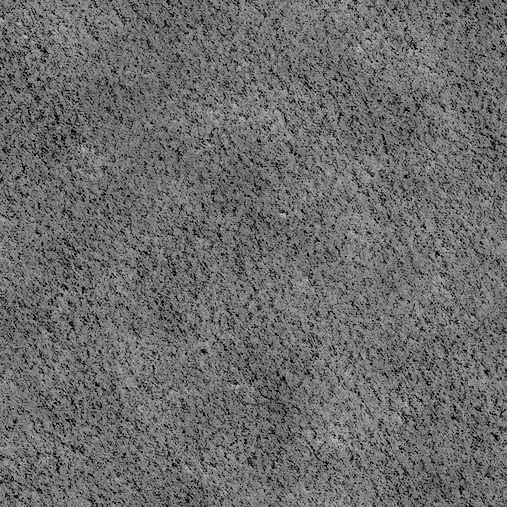
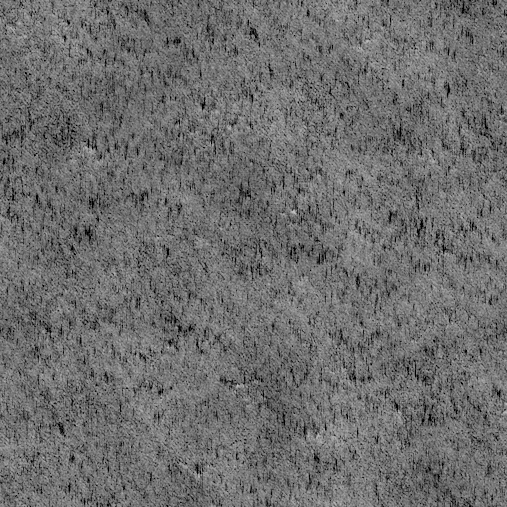
fix: model wood cracks as luminance valleys, not blur residuals
Height field: light = ridge, dark = valley. Extract fine and coarse groove
depth via vertical ridge envelope (grey_dilation), sharpen, then cut into the
shading map. Rejects relu(blur−img) coarse band. Re-synthesizes all six patches;
STUDY-032 and diary updated with evidence.

Changed region(s): [[0.0, 0.0, 1.0, 1.0]]

diff --git a/scripts/wood-grain-fourier-synthesis.py b/scripts/wood-grain-fourier-synthesis.py
@@ -15,37 +15,23 @@ Source photo requirements: ONE wood species per image (no grid — a grid
 splits resolution N ways and creates hard seams that contaminate the FFT),
 maximum resolution, flat/uniform lighting, zero perspective, PNG not JPEG.
 
+Height-field model (STUDY-032): luminance is relief — light = ridge, dark =
+valley. Cracks are directional grooves cut into that surface, not soft blur
+blobs. Valley depth = local ridge envelope minus height; horizontal grooves
+use a vertical morphological ridge envelope (max along columns).
+
 STAGES:
   1. Base grain   -- FFT the real photo -> smoothed magnitude spectrum ->
-                     filter fresh white noise with it (spectral synthesis /
-                     Fourier filtering method). Anisotropic: uses the real
-                     2D spectrum, not a radially-averaged one, so grain
-                     DIRECTION survives instead of collapsing to isotropic
-                     "night sky" noise.
-  2. Crack layer  -- isolate dark defects: crack = relu(blur(img) - img).
-  3. Feature scale -- Fourier scaling theorem (f(kx) <-> F(u/k)/k): zoom the
-                     crack spectrum about its DC center to resize crack
-                     features without touching pixels. Bigger features eat
-                     more of the fixed "ink" budget, so this also sparsens
-                     the crack count, not just the size.
-  4. Heeger-Bergen -- alternate (a) force target spectrum magnitude, keep
-                     phase, (b) histogram-match to the real crack layer's
-                     pixel-value distribution. A spectrum alone only
-                     controls pairwise correlation; real cracks are sparse
-                     and heavy-tailed (mostly none, rare strong spikes),
-                     which needs the marginal distribution matched too, or
-                     synthesis collapses to diffuse Gaussian haze instead of
-                     distinct dark lines.
-  5. Directional rim -- vertical gradient of the crack field; the "falling
-                     away below the crack" sign gets the strong highlight,
-                     the opposite sign a faint one. Fakes the raised/frayed
-                     fiber lip real wood shows next to a split.
-  6. Patchy rim   -- multiply the rim by a thresholded low-frequency noise
-                     mask so the highlight doesn't run a crack's full length.
-  7. Composite    -- base grain + crack darkening + rim brightening, as
-                     offsets around neutral gray (128) -- a height/shading map.
-  8. Colorize     -- albedo (heavily blurred real photo color) x shading
-                     (stage 7, as a lighting multiplier around 128).
+                     filter fresh white noise with it (spectral synthesis).
+  2. Valley layers -- fine + coarse depth from vertical ridge envelope;
+                     coarse = deep envelope minus fine (big fissures only).
+  3. Feature scale -- optional spectrum zoom per layer (native = 1.0).
+  4. Heeger-Bergen -- match spectrum + sparse depth histogram per layer.
+  5. Sharpen      -- steepen valley walls before compositing (not Gaussian).
+  6. Directional rim -- vertical gradient of combined valley depth.
+  7. Patchy rim   -- thresholded low-frequency mask on the rim.
+  8. Composite    -- height map: neutral + grain ripple - valley cuts + rim.
+  9. Colorize     -- albedo x shading / 128.
 
 Usage:
     python3 scripts/wood-grain-fourier-synthesis.py <source_photo.png> <wood_name> [out_dir]
@@ -58,28 +44,33 @@ from pathlib import Path
 
 import numpy as np
 from PIL import Image
-from scipy.ndimage import gaussian_filter, zoom
+from scipy.ndimage import gaussian_filter, grey_dilation, zoom
 
-# ---- tuned parameters (see STUDY-031 for how each was arrived at) ----
-BLUR_SIGMA = 6.0            # stage 2: "smooth base tone" scale
-SPEC_SMOOTH_SIGMA = 2.5     # stages 1 & 2: smooths the measured spectrum
-FEATURE_SCALE = 1.0         # stage 3: native crack size from photo (9.0 was bubbly blobs — 2026-08-22)
-ITERATIONS = 6               # stage 4: Heeger-Bergen alternation rounds
-CRACK_STRENGTH = 0.8         # stage 7: how dark cracks cut into the grain
-RIM_PRE_BLUR = 3.0           # stage 5: smooths crack field before gradient
-RIM_STRENGTH = 0.6           # stage 7: brightness of the highlight
-TOP_FRACTION = 0.2           # stage 5: faint highlight kept above (vs below)
-PATCH_NOISE_SIGMA = 9.0      # stage 6: length scale of lit/unlit stretches
-PATCH_THRESHOLD = 0.55       # stage 6: higher = more of the rim stays dark
-GRAIN_CONTRAST = 14          # stage 7: base grain strength, gray levels
-ALBEDO_BLUR_SIGMA = 14.0     # stage 8: how much real-photo color survives
+# ---- tuned parameters (see STUDY-032) ----
+FINE_VALLEY_RADIUS = 7         # vertical ridge envelope for fine checking (px)
+COARSE_VALLEY_RADIUS = 41      # vertical envelope for wide fissures (px)
+SPEC_SMOOTH_SIGMA = 2.5        # smooth measured spectra before synthesis
+FEATURE_SCALE = 1.0            # native scale (9.0 was bubbly blobs — 2026-08-22)
+COARSE_FEATURE_SCALE = 1.0
+ITERATIONS = 6                 # Heeger-Bergen rounds per valley layer
+FINE_VALLEY_STRENGTH = 0.72    # how deep fine grooves cut the height map
+COARSE_VALLEY_STRENGTH = 1.35  # big fissures cut deeper
+FINE_VALLEY_FLOOR = 0.12       # sharpen: discard shallow noise
+FINE_VALLEY_POWER = 1.55
+COARSE_VALLEY_FLOOR = 0.08
+COARSE_VALLEY_POWER = 1.75
+RIM_PRE_BLUR = 2.0             # rim only — valleys stay sharp
+RIM_STRENGTH = 0.6
+TOP_FRACTION = 0.2
+PATCH_NOISE_SIGMA = 9.0
+PATCH_THRESHOLD = 0.55
+GRAIN_CONTRAST = 14
+ALBEDO_BLUR_SIGMA = 14.0
 SEED = 0
 
 
 def scale_spectrum(mag_shifted: np.ndarray, feature_scale: float) -> np.ndarray:
-    """Zoom a (fftshift'd) magnitude spectrum about its DC center so the
-    real-space features it produces become `feature_scale` times bigger
-    (>1) or smaller (<1), then pad/crop back to the original shape."""
+    """Zoom a (fftshift'd) magnitude spectrum about its DC center."""
     h, w = mag_shifted.shape
     k = 1.0 / feature_scale
     zoomed = zoom(mag_shifted, zoom=k, order=1)
@@ -102,70 +93,119 @@ def histogram_match(source: np.ndarray, target_sorted_vals: np.ndarray) -> np.nd
     return target_sorted_vals[ranks].reshape(source.shape)
 
 
-def synthesize(input_path: Path, name: str, out_dir: Path) -> None:
-    out_dir.mkdir(parents=True, exist_ok=True)
-    img_rgb = np.asarray(Image.open(input_path).convert("RGB"), dtype=float)
-    img = np.asarray(Image.open(input_path).convert("L"), dtype=float)
-    h, w = img.shape
-    rng = np.random.default_rng(SEED)
-    win = np.outer(np.hanning(h), np.hanning(w))
+def vertical_ridge_envelope(height: np.ndarray, radius: int) -> np.ndarray:
+    """Local ridge height for horizontal grain: max along columns in a vertical window."""
+    foot = np.ones((max(3, int(radius) | 1), 1))
+    return grey_dilation(height, footprint=foot)
 
-    # 1. base grain: anisotropic spectral synthesis
-    img_c = img - img.mean()
-    spec = np.fft.fft2(img_c * win)
-    mag_shifted = gaussian_filter(np.fft.fftshift(np.abs(spec)), sigma=SPEC_SMOOTH_SIGMA)
-    filt = np.fft.ifftshift(mag_shifted)
-    filt[0, 0] = 0.0
-    filt = filt / (filt.max() + 1e-8)
-    noise = rng.normal(size=(h, w))
-    base = np.fft.ifft2(np.fft.fft2(noise) * filt).real
-    base = (base - base.mean()) / (base.std() + 1e-8)
 
-    # 2. isolate crack/defect residual
-    base_tone = gaussian_filter(img, sigma=BLUR_SIGMA)
-    crack_real = np.clip(base_tone - img, 0, None)
-    crack_c = crack_real - crack_real.mean()
-    spec_c = np.fft.fft2(crack_c * win)
+def valley_depth(height: np.ndarray, radius: int) -> np.ndarray:
+    """Depth below the local ridge surface — sharp directional valley, not blur."""
+    return np.clip(vertical_ridge_envelope(height, radius) - height, 0, None)
+
+
+def extract_valley_layers(height: np.ndarray) -> tuple[np.ndarray, np.ndarray]:
+    """Fine checking grooves + coarse fissures (band-pass in valley depth)."""
+    fine = valley_depth(height, FINE_VALLEY_RADIUS)
+    deep = valley_depth(height, COARSE_VALLEY_RADIUS)
+    coarse = np.clip(deep - fine, 0, None)
+    return fine, coarse
+
+
+def sharpen_valleys(field: np.ndarray, floor: float, power: float) -> np.ndarray:
+    """Steepen valley walls — HB output is still too soft without this."""
+    peak = field.max()
+    if peak <= 0:
+        return field
+    norm = field / peak
+    scaled = np.clip((norm - floor) / (1.0 - floor + 1e-8), 0, 1)
+    return scaled**power
+
+
+def synthesize_valley_field(
+    valley_real: np.ndarray,
+    win: np.ndarray,
+    feature_scale: float,
+    rng: np.random.Generator,
+) -> np.ndarray:
+    """Heeger–Bergen placement + sparsity from measured valley depth."""
+    h, w = valley_real.shape
+    valley_c = valley_real - valley_real.mean()
+    spec_c = np.fft.fft2(valley_c * win)
     mag_c_shifted = gaussian_filter(np.fft.fftshift(np.abs(spec_c)), sigma=SPEC_SMOOTH_SIGMA)
-
-    # 3. Fourier-scale the crack spectrum
-    mag_c_shifted = scale_spectrum(mag_c_shifted, FEATURE_SCALE)
+    mag_c_shifted = scale_spectrum(mag_c_shifted, feature_scale)
     target_mag = np.fft.ifftshift(mag_c_shifted)
     target_mag[0, 0] = 0.0
-    target_sorted = np.sort(crack_real.ravel())
+    target_sorted = np.sort(valley_real.ravel())
 
-    # 4. Heeger-Bergen: spectrum + histogram matching
     cur = rng.normal(size=(h, w))
     for _ in range(ITERATIONS):
         f_cur = np.fft.fft2(cur)
         f2 = target_mag * np.exp(1j * np.angle(f_cur))
         cur = np.fft.ifft2(f2).real
         cur = histogram_match(cur, target_sorted)
-    crack_field = np.clip(cur, 0, None)
-    crack_field = crack_field / (crack_field.max() + 1e-8)
+    field = np.clip(cur, 0, None)
+    peak = field.max()
+    if peak > 0:
+        field = field / peak
+    return field
 
-    # 5. directional rim
-    smoothed = gaussian_filter(crack_field, sigma=RIM_PRE_BLUR)
+
+def synthesize(input_path: Path, name: str, out_dir: Path) -> None:
+    out_dir.mkdir(parents=True, exist_ok=True)
+    img_rgb = np.asarray(Image.open(input_path).convert("RGB"), dtype=float)
+    height = np.asarray(Image.open(input_path).convert("L"), dtype=float)
+    h, w = height.shape
+    rng_fine = np.random.default_rng(SEED)
+    rng_coarse = np.random.default_rng(SEED + 1)
+    win = np.outer(np.hanning(h), np.hanning(w))
+
+    # 1. base grain ripple on the height field
+    height_c = height - height.mean()
+    spec = np.fft.fft2(height_c * win)
+    mag_shifted = gaussian_filter(np.fft.fftshift(np.abs(spec)), sigma=SPEC_SMOOTH_SIGMA)
+    filt = np.fft.ifftshift(mag_shifted)
+    filt[0, 0] = 0.0
+    filt = filt / (filt.max() + 1e-8)
+    noise = rng_fine.normal(size=(h, w))
+    base = np.fft.ifft2(np.fft.fft2(noise) * filt).real
+    base = (base - base.mean()) / (base.std() + 1e-8)
+
+    # 2–5. synthesize valley depth layers (fine checking + coarse fissures)
+    valley_fine_real, valley_coarse_real = extract_valley_layers(height)
+    valley_fine = synthesize_valley_field(valley_fine_real, win, FEATURE_SCALE, rng_fine)
+    valley_coarse = synthesize_valley_field(
+        valley_coarse_real, win, COARSE_FEATURE_SCALE, rng_coarse
+    )
+    valley_fine = sharpen_valleys(valley_fine, FINE_VALLEY_FLOOR, FINE_VALLEY_POWER)
+    valley_coarse = sharpen_valleys(valley_coarse, COARSE_VALLEY_FLOOR, COARSE_VALLEY_POWER)
+    valley_combined = np.clip(valley_fine + valley_coarse, 0, 1)
+
+    # 6. directional rim from valley relief (fiber lip beside the groove)
+    smoothed = gaussian_filter(valley_combined, sigma=RIM_PRE_BLUR)
     grad_y = np.gradient(smoothed, axis=0)
     rim_below = np.clip(-grad_y, 0, None)
     rim_above = np.clip(grad_y, 0, None)
     rim = rim_below + TOP_FRACTION * rim_above
     rim = rim / (rim.max() + 1e-8)
 
-    # 6. patchy rim
-    patch_noise = gaussian_filter(rng.normal(size=(h, w)), sigma=PATCH_NOISE_SIGMA)
+    # 7. patchy rim
+    patch_noise = gaussian_filter(rng_fine.normal(size=(h, w)), sigma=PATCH_NOISE_SIGMA)
     patch_noise = (patch_noise - patch_noise.min()) / (patch_noise.max() - patch_noise.min() + 1e-8)
     patch_mask = np.clip((patch_noise - PATCH_THRESHOLD) / (1 - PATCH_THRESHOLD), 0, 1)
     rim_patchy = rim * patch_mask
 
-    # 7. composite (grayscale height/shading map)
+    # 8. height / shading composite — valleys cut down from neutral
     grain_px = base * GRAIN_CONTRAST
-    crack_px = crack_field * 255 * CRACK_STRENGTH
+    valley_px = (
+        valley_fine * 255 * FINE_VALLEY_STRENGTH
+        + valley_coarse * 255 * COARSE_VALLEY_STRENGTH
+    )
     rim_px = rim_patchy * 255 * RIM_STRENGTH
-    shading = np.clip(128 + grain_px - crack_px + rim_px, 0, 255)
+    shading = np.clip(128 + grain_px - valley_px + rim_px, 0, 255)
     Image.fromarray(shading.astype(np.uint8), mode="L").save(out_dir / f"{name}_shading.png")
 
-    # 8. colorize: albedo x shading
+    # 9. colorize
     albedo = np.stack(
         [gaussian_filter(img_rgb[..., c], sigma=ALBEDO_BLUR_SIGMA) for c in range(3)], axis=-1
     )

diff --git a/docs/study/STUDY-032-photographic-wood-grain-synthesis.md b/docs/study/STUDY-032-photographic-wood-grain-synthesis.md
@@ -61,12 +61,26 @@ scaling R, G, B together. Adopting STUDY-031's exact ramp-from-quantiles
 technique in place of the albedo multiply is the likely next step if measured
 colour drifts.
 
-**[D]** `FEATURE_SCALE` on the crack spectrum is the dominant knob for crack
-*morphology*. At **9.0** (early tuning for sparse, large checking on tiles) the
-synthesized crack field is fat, bubbly, and rim-blurred — profile slices show
-broad humps vs narrow spikes in the real `relu(blur−img)` layer. At **1.0**
-(native measured scale) wood-01 remakes read as fine horizontal checking; owner
-marked this a major breakthrough 2026-08-22. Reference:
+**[D]** Defect extraction must follow the height field, not blur residuals.
+Luminance **is** relief (line 26–27). Valley depth = vertical ridge envelope
+minus height (`grey_dilation` footprint `(radius, 1)` — max along columns for
+horizontal grain). Fine checking uses a small radius; coarse fissures use a
+large radius with `coarse = clip(deep − fine, 0)` so wide splits are a
+**band-pass in valley depth**, not `relu(blur_22 − blur_6)`. Blur-difference
+was tried and rejected: it produces symmetric soft blobs, contradicts the
+ridge/valley model, and reads bubbly when `FEATURE_SCALE` widens the spectrum.
+
+**[D]** Big fissures need that **second valley band** (coarse radius ~41 px on
+wood-01) synthesised separately via Heeger–Bergen, sharpened (`floor` +
+`power` on normalised depth), then composited into the height map as cuts:
+`shading = 128 + grain − valley_fine − valley_coarse + rim`. Rim still uses a
+directional vertical gradient of combined valley depth (one-sided fiber lip).
+
+**[D]** `FEATURE_SCALE` on the valley spectrum is the dominant knob for crack
+*placement density*, not valley **shape** (shape comes from morphological depth
++ sharpen). At **9.0** (early tuning) the synthesized field was fat and bubbly.
+At **1.0** (native measured scale) wood-01 remakes read as fine horizontal
+checking; owner marked this a major breakthrough 2026-08-22. Reference:
 `design/progression/breakthrough-wood-01-final.png`.
 
 **[D]** Feature size is controllable independently of the recipe's shape via
@@ -123,6 +137,7 @@ rule or a button edge, not the material.
 | Spectrum-matching alone for sparse defects (cracks, knots) | Gaussian marginal distribution — diffuse haze, not lines; needs histogram matching too |
 | Per-channel RGB histogram matching for colour | STUDY-031 finding 11 — decorrelates channels, turns wood pink; this pipeline histogram-matches one grayscale layer instead |
 | Symmetric (blur-difference) rim highlight | Real fiber-lip highlighting is one-sided; needs a directional gradient |
+| `relu(blur − img)` as the defect layer | Violates the height-field model; soft symmetric blobs, not sharp grooves |
 | Multi-species grid source photos | Splits resolution N ways; seams inject spurious FFT energy even with no drawn divider |
 | Calling this validated before measurement | Tuned on placeholder photos only — `scripts/texture-metrics.mjs` against the real board hasn't run yet |
 | Treating this study as the implementation of `/dev/wood-textures`'s resize behavior | That page's tested contract is the live canvas renderer — see [STUDY-030](STUDY-030-procedural-wood-grain.md) and [`wood-texture-lab.md`](../specs/page/wood-texture-lab.md) |

diff --git a/docs/diary/2026-08-22.md b/docs/diary/2026-08-22.md
@@ -25,8 +25,20 @@ from the source photo). Reference tile saved as
 - `scripts/slice-wood-texture-grid.py`, `scripts/fft-crack-layer-analysis.py`,
   `scripts/wood-synthesis-comparison.py`
 
-**Still not done:** knots (wood-05/06) fail structurally; board validation via
-`texture-metrics.mjs` not run yet; OKLCH colour ramp vs albedo-multiply open.
+**Height-field valley model (owner correction):** Cracks are grooves in relief —
+dark = valley, light = ridge — not Gaussian blur residuals. Rewrote defect
+extraction in `wood-grain-fourier-synthesis.py`: vertical ridge envelope via
+`grey_dilation`, fine + coarse valley depth bands, sharpen before composite.
+Rejected `relu(blur_22 − blur_6)` coarse layer (blobby, wrong physics). All six
+patches re-synthesized on `cursor/coarse-crack-layer-f642`.
+
+**texture-metrics (wood-01 vs board, full frame):** contrast −0.48, lightRange
+−0.49, tone −0.44 — fine checking improved structurally but bright wash / wide
+fissures still under target (board p95 L 0.93 vs synth 0.46). Next: coarse
+strength/radius tuning, highlight lift in composite.
+
+**Still not done:** knots (wood-05/06) fail structurally; OKLCH colour ramp vs
+albedo-multiply open.
 
 ## Path towards awesome texture (owner GO)
 
@@ -40,8 +52,6 @@ from the source photo). Reference tile saved as
 | **6. Knot mechanism** | Domain warp + radial stamp (STUDY-032 open) — only if board needs knots | Spec first |
 | **7. Colour exactness** | STUDY-031 OKLCH quantile ramp instead of albedo×shading | hue/chroma within STUDY-031 bands |
 | **8. Production** | Promote tile to shipped skin only after phase 0 board sign-off | `progression-reference-board.md` |
-
-**Trust order unchanged:** owner → spec → code → board → study.
 
 ## PR
 
